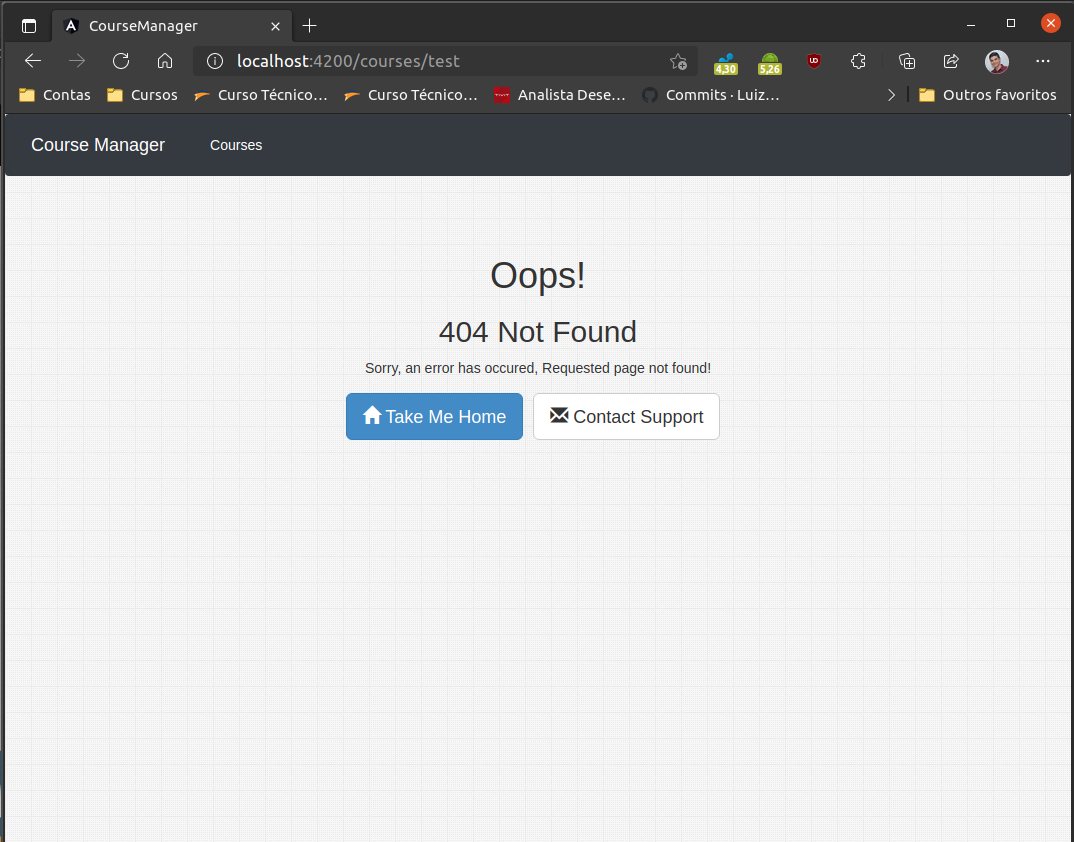
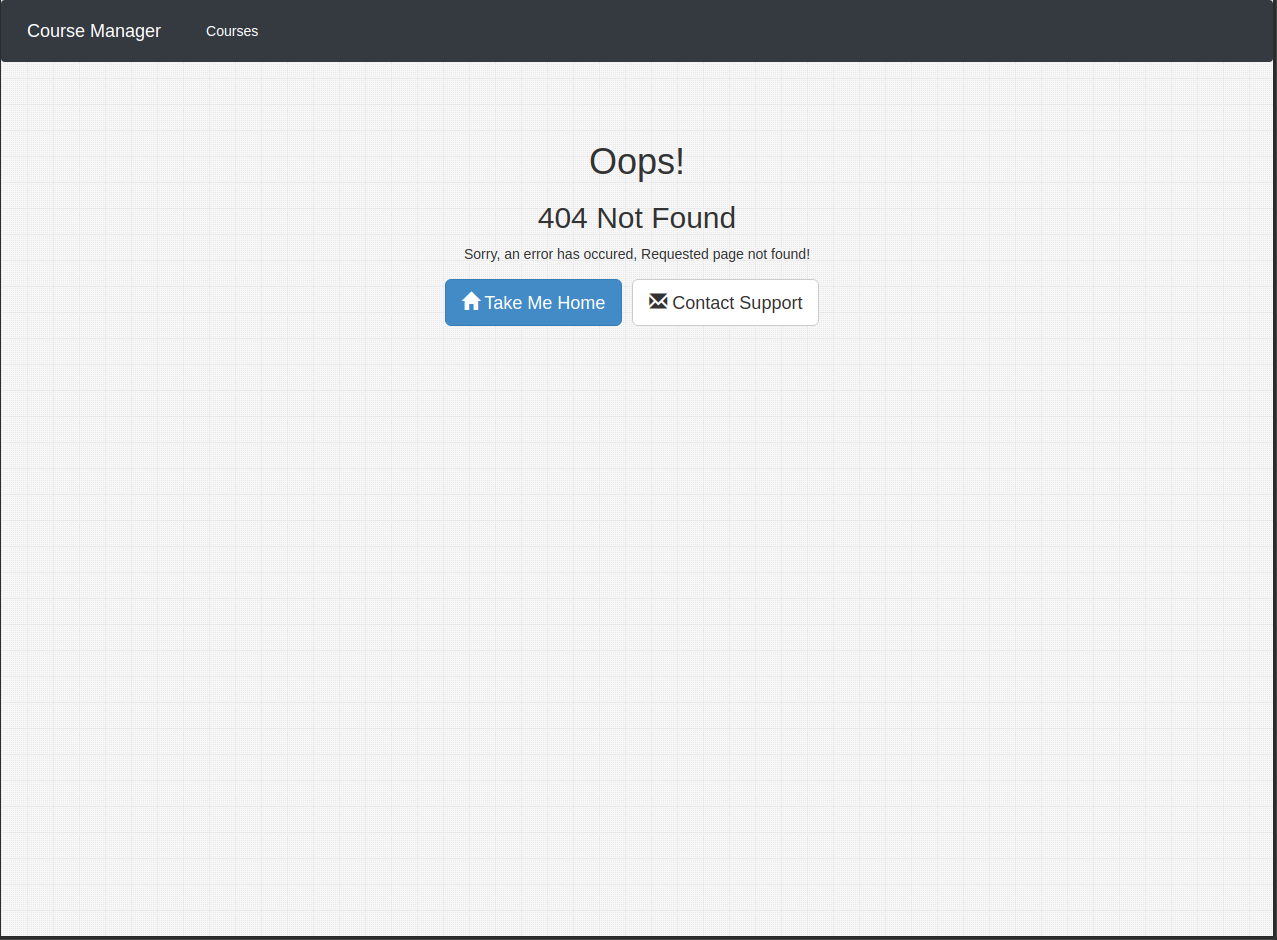
docs

Changed region(s): [[0.0, 0.0, 1.0, 1.0], [0.3073, 0.4323, 0.676, 0.5249]]

diff --git a/README.md b/README.md
@@ -12,3 +12,14 @@ Bootstrap 4.x
 
 ![](./images-readme/home-page.png)
 
+
+
+
+
+![](./images-readme/edit-page.png)
+
+
+
+
+
+![](./images-readme/404-page.png)
